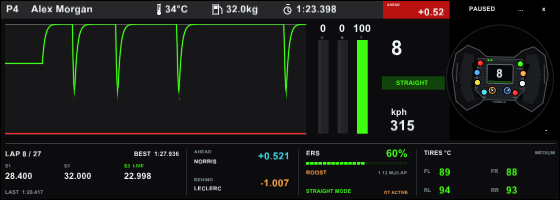
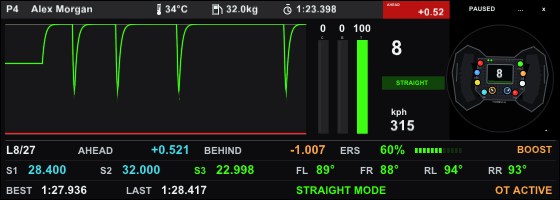
Make the small HUD footer readable with larger three-row readouts

diff --git a/main.cpp b/main.cpp
@@ -260,76 +260,106 @@ std::string ersMode(const Telemetry& t) {
         t.ersMode==3 ? (t.regs2026 ? "BOOST" : "OVERTAKE") : "MEDIUM";
 }
 
-void details(Canvas& c, const Telemetry& t) {
-    // One shallow continuation of the reference strip. Keep the same typeface,
-    // flat background and small separators, with no duplicate driver header.
-    c.rect(0,280,1120,120,IM_COL32(15,15,17,static_cast<int>(c.opacity*255)));
-    c.line(10,286,1110,286,edge);
-    for (float x : {372.0f,596.0f,832.0f}) c.line(x,298,x,390,alpha(edge,160));
+void details(Canvas c, const Telemetry& t) {
+    // The main graph uses a 1120-wide design; the footer is laid out at its
+    // actual 560-pixel minimum width. This keeps text at 11-14 px rather than
+    // shrinking the old labels to 5-6 px in the small overlay.
+    c.oy=c.p(0,280).y;
+    c.scale*=2;
+    constexpr ImU32 label=IM_COL32(193,201,207,255);
+    c.rect(0,0,560,60,IM_COL32(12,12,14,static_cast<int>(std::max(c.opacity,0.97f)*255)));
+    c.line(5,0,555,0,edge);
+    c.line(5,20,555,20,alpha(edge,85));
+    c.line(5,40,555,40,alpha(edge,85));
 
-    // The current lap clock is already in the header. Only add lap count,
-    // personal best, sectors and last lap here.
-    c.text(10,298,17,white,t.hasLap ? "LAP "+std::to_string(t.lap)+
-        (t.hasSession ? " / "+std::to_string(t.totalLaps) : " / --") : "LAP -- / --",c.f.bold);
-    c.right(358,300,14,white,"BEST  "+lapTime(t.bestLap),c.f.bold);
+    const bool ahead=t.hasLap && t.position>1 && t.gapAhead>0;
+    const bool behind=t.hasLap && t.gapBehind>0;
+    const bool invalid=t.hasLap && t.invalidLap;
+    const bool penalized=t.hasLap && t.penalties>0;
+    const std::string lap=t.hasLap ? "L"+std::to_string(t.lap)+"/"+
+        (t.hasSession ? std::to_string(t.totalLaps) : "--")+(invalid || penalized ? " !" : "") : "L--/--";
+    c.fit(6,3,62,13,invalid ? red : penalized ? orange : white,lap,c.f.bold);
+    c.text(78,5,11,label,"AHEAD",c.f.bold);
+    c.right(190,2,14,cyan,ahead ? number(t.gapAhead,3,true) : "---",c.f.bold);
+    c.text(204,5,11,label,"BEHIND",c.f.bold);
+    c.right(326,2,14,orange,behind ? number(-t.gapBehind,3,true) : "---",c.f.bold);
+
+    const auto energyColor=t.hasStatus ? t.ersPercent<20 ? orange : green : label;
+    c.text(340,5,11,label,"ERS",c.f.bold);
+    c.right(406,2,14,energyColor,t.hasStatus ? number(t.ersPercent,0)+"%" : "--%",c.f.bold);
+    for (int i=0;i<12;++i)
+        c.rect(415+i*4.0f,8,2.6f,5,t.hasStatus && t.ersPercent>=(i+1)*100.0f/12 ? energyColor : alpha(energyColor,35));
+    c.right(553,4,11,t.hasStatus && t.ersMode==3 ? orange : white,ersMode(t),c.f.bold);
+
+    // One row of sector times and all four tire temperatures remains visible.
+    // Active sectors use green; completed sectors use cyan.
     for (int i=0;i<3;++i) {
-        const float x=10+i*119.0f;
+        const float x=6+i*94.0f;
         const bool active=t.hasLap && t.sector==i, done=t.hasLap && t.sector>i;
         float value=done ? t.sectors[i] : 0;
         if (active) {
             value=t.lapSeconds;
             for (int j=0;j<i;++j) value-=t.sectors[j];
         }
-        c.text(x,326,11,active ? green : muted,"S"+std::to_string(i+1)+(active ? "  LIVE" : ""),c.f.bold);
-        c.text(x,341,20,white,value>0 ? number(value,3) : "--.---",c.f.bold);
+        c.text(x,25,11,active ? green : label,"S"+std::to_string(i+1),c.f.bold);
+        c.text(x+22,22,14,active ? green : done ? cyan : white,value>0 ? number(value,3) : "--.---",c.f.bold);
     }
-    c.text(10,378,12,muted,"LAST  "+lapTime(t.lastLap),c.f.bold);
-    if (t.hasLap && t.invalidLap) c.right(358,378,12,red,"INVALID LAP",c.f.bold);
-    else if (t.hasLap && t.penalties>0) c.right(358,378,12,orange,"PEN +"+std::to_string(t.penalties)+"s",c.f.bold);
+    constexpr const char* names[]{"FL","FR","RL","RR"};
+    for (int i=0;i<4;++i) {
+        const float x=296+i*64.0f;
+        c.text(x,25,11,label,names[i],c.f.bold);
+        c.text(x+20,22,14,t.hasTelemetry ? tyreColor(t.tyreTemp[i]) : label,
+            t.hasTelemetry ? number(t.tyreTemp[i],0)+"°" : "--",c.f.bold);
+    }
 
-    const bool ahead=t.hasLap && t.position>1 && t.gapAhead>0;
-    const bool behind=t.hasLap && t.gapBehind>0;
-    c.text(388,299,11,muted,"AHEAD",c.f.bold);
-    c.fit(388,316,92,13,white,ahead && !t.aheadName.empty() ? t.aheadName : "---",c.f.bold);
-    c.right(580,300,23,cyan,ahead ? number(t.gapAhead,3,true) : "---",c.f.bold);
-    c.text(388,354,11,muted,"BEHIND",c.f.bold);
-    c.fit(388,371,92,13,white,behind && !t.behindName.empty() ? t.behindName : "---",c.f.bold);
-    c.right(580,355,23,orange,behind ? number(-t.gapBehind,3,true) : "---",c.f.bold);
-
-    c.text(612,299,15,white,"ERS",c.f.bold);
-    const auto energyColor=t.hasStatus ? t.ersPercent<20 ? orange : green : muted;
-    c.right(816,295,24,energyColor,t.hasStatus ? number(t.ersPercent,0)+"%" : "--%",c.f.bold);
-    for (int i=0;i<24;++i)
-        c.rect(612+i*8.5f,324,6.5f,5,t.hasStatus && t.ersPercent>=(i+1)*100.0f/24 ? energyColor : alpha(energyColor,24));
-    c.text(612,339,13,t.hasStatus && t.ersMode==3 ? orange : white,ersMode(t),c.f.bold);
-    c.right(816,340,11,muted,t.hasStatus ? number(t.deployedMJ,2)+" MJ/LAP" : "-- MJ/LAP",c.f.bold);
-
-    // Active aero and electrical overtake remain distinct. Missing packets
-    // produce a neutral dash rather than an inferred activation state.
+    c.text(6,45,11,label,"BEST",c.f.bold);
+    c.text(41,43,13,white,lapTime(t.bestLap),c.f.bold);
+    c.text(126,45,11,label,"LAST",c.f.bold);
+    c.text(161,43,13,white,lapTime(t.lastLap),c.f.bold);
     const bool known=t.hasTelemetry && (t.regs2026 ? t.aeroKnown : t.hasStatus);
     const bool active=known && (t.regs2026 ? t.straightMode : t.drs==Drs::Open);
     const bool available=known && (t.regs2026 ? t.aeroAvailable : t.drs==Drs::Available);
     const std::string aero=!known ? "AERO --" : t.regs2026 ?
         (active ? "STRAIGHT MODE" : available ? "AERO READY" : "CORNER MODE") :
         (active ? "DRS OPEN" : available ? "DRS AVAILABLE" : "DRS CLOSED");
-    c.text(612,377,12,active ? green : available ? cyan : muted,aero,c.f.bold);
-    if (t.regs2026 && known && (t.overtake || t.overtakeAvailable))
-        c.right(816,378,10,t.overtake ? orange : cyan,t.overtake ? "OT ACTIVE" : "OT READY",c.f.bold);
+    c.text(296,44,12,active ? green : available ? cyan : label,aero,c.f.bold);
+    // The rightmost status is always textual; never rely on a color alone.
+    std::string state;
+    ImU32 stateColor=label;
+    if (invalid) { state="INVALID LAP"; stateColor=red; }
+    else if (penalized) { state="PEN +"+std::to_string(t.penalties)+"s"; stateColor=orange; }
+    else if (t.regs2026) {
+        state=!known ? "OT --" : t.overtake ? "OT ACTIVE" : t.overtakeAvailable ? "OT READY" : "OT STANDBY";
+        stateColor=known && t.overtake ? orange : known && t.overtakeAvailable ? cyan : label;
+    } else state=t.hasStatus ? number(t.deployedMJ,2)+" MJ/LAP" : "-- MJ/LAP";
+    c.right(553,44,12,stateColor,state,c.f.bold);
 
-    c.text(848,299,14,white,"TIRES °C",c.f.bold);
-    c.right(1110,301,11,muted,t.hasStatus ? compoundName(t.compound) : "---",c.f.bold);
-    constexpr const char* names[]{"FL","FR","RL","RR"};
-    for (int i=0;i<4;++i) {
-        const float x=848+(i%2)*134.0f, y=332+(i/2)*37.0f;
-        c.text(x,y+5,12,muted,names[i],c.f.bold);
-        c.text(x+30,y,23,t.hasTelemetry ? tyreColor(t.tyreTemp[i]) : muted,
-            t.hasTelemetry ? number(t.tyreTemp[i],0) : "--",c.f.bold);
-    }
-    // Secondary tire diagnostics are still available without consuming space.
-    if (ImGui::IsWindowHovered() && ImGui::IsMouseHoveringRect(c.p(840,294),c.p(1120,400))) {
+    // Secondary values remain accessible without making the overlay larger.
+    // Tooltip text uses ImGui's normal font size, independent of overlay scale.
+    auto hovered=[&](float x,float y,float w,float h) {
+        return ImGui::IsWindowHovered() && ImGui::IsMouseHoveringRect(c.p(x,y),c.p(x+w,y+h));
+    };
+    if (hovered(0,0,70,20) || hovered(0,20,285,40)) {
         ImGui::BeginTooltip();
-        ImGui::TextUnformatted("Tire core / pressure / wear");
-        ImGui::Separator();
+        ImGui::TextUnformatted("Lap timing / sector times in seconds");
+        const std::string info=t.hasLap ? "Lap "+std::to_string(t.lap)+" / penalties "+std::to_string(t.penalties)+
+            "s / warnings "+std::to_string(t.warnings)+(invalid ? " / INVALID" : "") : "Waiting for lap data";
+        ImGui::TextUnformatted(info.c_str());
+        ImGui::TextUnformatted("Green: current sector. Cyan: completed sector.");
+        ImGui::EndTooltip();
+    } else if (hovered(70,0,265,20)) {
+        ImGui::BeginTooltip();
+        ImGui::TextUnformatted(("Ahead: "+(ahead ? t.aheadName+"  "+number(t.gapAhead,3,true)+" s" : "---")).c_str());
+        ImGui::TextUnformatted(("Behind: "+(behind ? t.behindName+"  "+number(-t.gapBehind,3,true)+" s" : "---")).c_str());
+        ImGui::EndTooltip();
+    } else if (hovered(335,0,225,20)) {
+        ImGui::BeginTooltip();
+        ImGui::TextUnformatted(("ERS deployment: "+ersMode(t)).c_str());
+        ImGui::TextUnformatted((t.hasStatus ? number(t.deployedMJ,2)+" MJ deployed this lap" : "Waiting for ERS data").c_str());
+        ImGui::EndTooltip();
+    } else if (hovered(290,20,270,20)) {
+        ImGui::BeginTooltip();
+        ImGui::TextUnformatted((std::string("Tire core / Celsius / ")+(t.hasStatus ? compoundName(t.compound) : "---")).c_str());
         for (int i=0;i<4;++i) {
             const std::string row=std::string(names[i])+"   "+(t.hasTelemetry ? number(t.tyreTemp[i],0)+" °C   "+
                 number(t.tyrePressure[i],1)+" PSI" : "-- °C   -- PSI")+"   "+

diff --git a/README.md b/README.md
@@ -2,7 +2,7 @@
 
 A native **C++20 / Dear ImGui / GLFW / OpenGL 3.3** overlay styled after the supplied iRacing telemetry reference: a flat, translucent black horizontal strip with a compact white header, green throttle/red brake traces, three narrow pedal bars, gear/speed, and a rotating steering wheel. It starts in a smoothly animated demo. Click the source badge at the top right and choose **Live F1 UDP** to receive EA SPORTS F1 25 or the **F1 25: 2026 Season Pack**.
 
-A **slim information strip**, visible by default beneath the graph and wheel, uses the same flat black background and compact type: lap count, sectors, best/last laps, ahead/behind gaps, ERS charge and deployment, aero status and four tire temperatures. Driver name, position and the current lap clock remain in the existing header. Press **F2** or click **−** to hide the lower strip; press again to restore it. The wheel is drawn with native vector geometry and turns with the steering input; no external images, bundled fonts, game injection or paid libraries are needed.
+A **slim information strip**, visible by default beneath the graph and wheel, uses the same flat black styling with three readable rows: lap count, sectors, best/last laps, ahead/behind gaps, ERS charge and deployment, aero status and four tire temperatures. At the default size, its labels are 11 pixels and its main values are 13–14 pixels. A nearly opaque backing keeps game scenery from obscuring the text. Driver name, position and the current lap clock remain in the existing header. Press **F2** or click **−** to hide the lower strip; press again to restore it. The wheel is drawn with native vector geometry and turns with the steering input; no external images, bundled fonts, game injection or paid libraries are needed.
 
 ![Telemetry HUD with compact F1 readouts](docs/preview.png)
 
@@ -112,19 +112,19 @@ apex_hud --setup
 apex_hud --help
 ```
 
-The default window is **560 × 200**, with the reference strip above **60 pixels** of matching readouts. `--compact` opens at **560 × 140** with only the reference strip; `--expanded` explicitly includes the lower readouts. The layout scales from a 1120 × 400 design, so the graph, wheel and text keep their proportions. `--width` automatically chooses a matching height unless `--height` is also provided; for example, `--width 840` opens at **840 × 300**, and `--width 1120` opens at **1120 × 400**. Setup offers 560, 840 and 1120 pixel width presets, applied when it closes. The settings dialog temporarily enlarges the same window and restores the overlay's dimensions afterward. Arbitrary aspect ratios are letterboxed; native framebuffer scaling preserves sharp text on high-DPI displays. Transparency requires OS compositor support.
+The default window is **560 × 200**, with the reference strip above **60 pixels** of matching readouts. The bottom text is designed for this small size, with three rows and a darker backing; the graph and wheel retain their existing proportions. `--compact` opens at **560 × 140** with only the reference strip; `--expanded` explicitly includes the lower readouts. `--width` automatically chooses a matching height unless `--height` is also provided; for example, `--width 840` opens at **840 × 300**, and `--width 1120` opens at **1120 × 400**. Setup offers 560, 840 and 1120 pixel width presets, applied when it closes. The settings dialog temporarily enlarges the same window and restores the overlay's dimensions afterward. Arbitrary aspect ratios are letterboxed; native framebuffer scaling preserves sharp text on high-DPI displays. Transparency requires OS compositor support. The opacity slider changes the main overlay; the bottom backing stays at least 97% opaque for legibility.
 
 ## Reading the dashboard
 
 - **Header:** race position, driver name, track temperature, fuel mass in kg, current lap time, and a red **AHEAD** gap tile in seconds. The tile is an opponent gap, not an inferred lap delta.
 - **Pedals:** plain green throttle/red brake traces, timestamped over 5–20 seconds (8 by default), followed by clutch/brake/throttle bars marked C/B/T with numeric percentages. Graph memory is bounded, and gaps in reception are not joined by misleading lines. The demo includes initial brake pressure and progressive trail braking.
 - **Wheel and speed:** gear and kph beside an animated vector formula wheel. The wheel's small display mirrors the gear and its LEDs follow RPM. Wheel rotation visualizes normalized steering over ±240°; it is not a calibrated physical steering-lock measurement.
-- **Aero:** a green **STRAIGHT** or **DRS OPEN** flag appears beside the gear while active. The lower strip shows the Available/Closed/Corner state beneath ERS. A separate **OT ACTIVE / OT READY** indicator appears when 2026 overtake is active or available.
+- **Aero:** a green **STRAIGHT** or **DRS OPEN** flag appears beside the gear while active. The bottom row shows the Available/Closed/Corner state. A separate **OT ACTIVE / OT READY / OT STANDBY** indicator shows the 2026 electrical overtake state.
 - **Tires:** FL / FR / RL / RR **carcass** temperatures in Celsius. Hover over these readouts for pressure in PSI and wear in percent. Blue is below 80°C; green is 80–103°C; orange is above 103°C through 110°C; red is above 110°C. These are visual demo thresholds, not compound-specific engineering recommendations; change `tyreColor` in `main.cpp` to suit your preferences.
-- **Timing:** last lap, personal best, completed sectors and the elapsed current sector. Personal bests use valid lap-history entries. A live sector's elapsed time is derived from the game's lap clock and completed sectors.
-- **Intervals:** positive ahead gap and negative behind gap in seconds. The behind gap uses the following car's own gap-to-front field. Missing opponents show dashes.
-- **Energy:** ERS store as a percentage of 4 MJ, deployed MJ this lap, reported deployment mode, and the 2026 overtake state. Active aero and overtake are separate indicators.
-- **Lap status:** an invalid-lap warning or time penalty appears beside the last-lap readout when applicable.
+- **Timing:** last lap, personal best, completed sectors in cyan and the elapsed current sector in green. Personal bests use valid lap-history entries. A live sector's elapsed time is derived from the game's lap clock and completed sectors. Hover over timing for lap penalties and warnings.
+- **Intervals:** positive ahead gap and negative behind gap in seconds. Hover over the gaps for opponent names. The behind gap uses the following car's own gap-to-front field. Missing opponents show dashes.
+- **Energy:** ERS store as a percentage of 4 MJ, a battery meter and reported deployment mode. Hover over ERS for deployed MJ this lap; the 2025 view also shows it on the bottom row. Active aero and 2026 overtake are separate indicators.
+- **Lap status:** an invalid-lap warning or time penalty takes priority in the rightmost bottom-row status, and the lap count is marked with a colored exclamation mark.
 
 Unavailable live values show dashes. High-frequency telemetry and active aero expire after 0.75 seconds; lap and motion data after 2 seconds; status and tire wear after 3 seconds. A disconnected game never falls back to demo values. Session metadata and best lap are retained until the session changes. The source badge shows **WAITING** or **STALE**, with a message in the graph, when appropriate.
 
